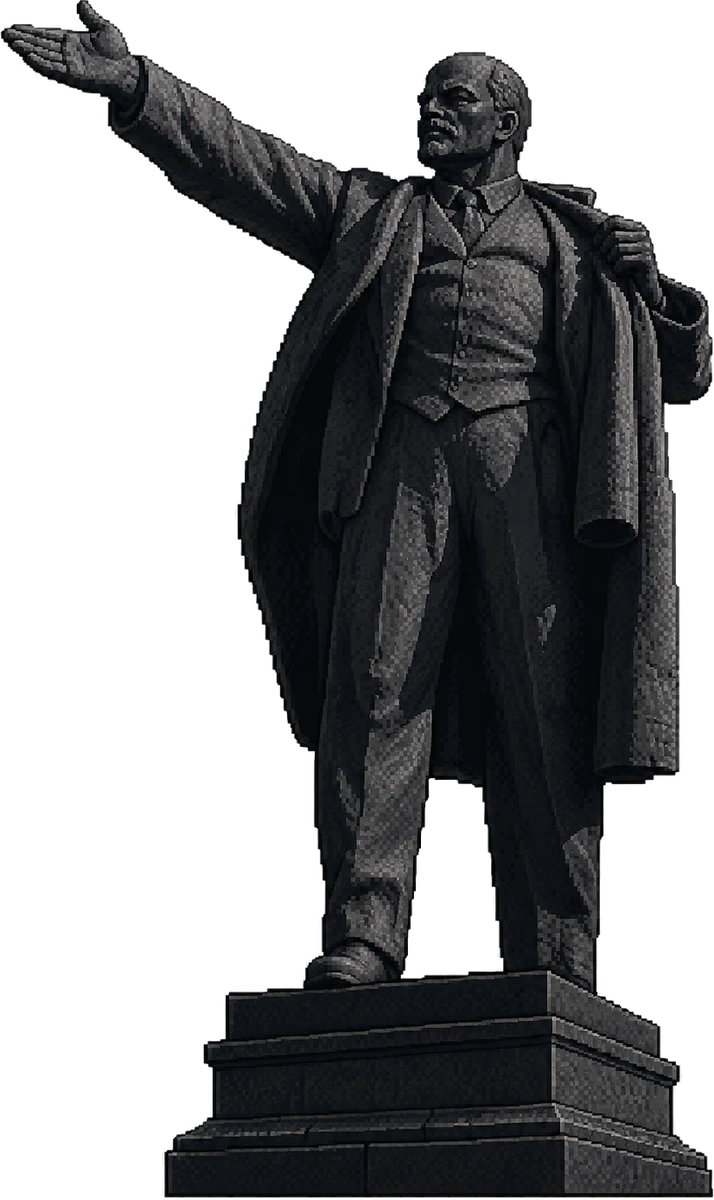
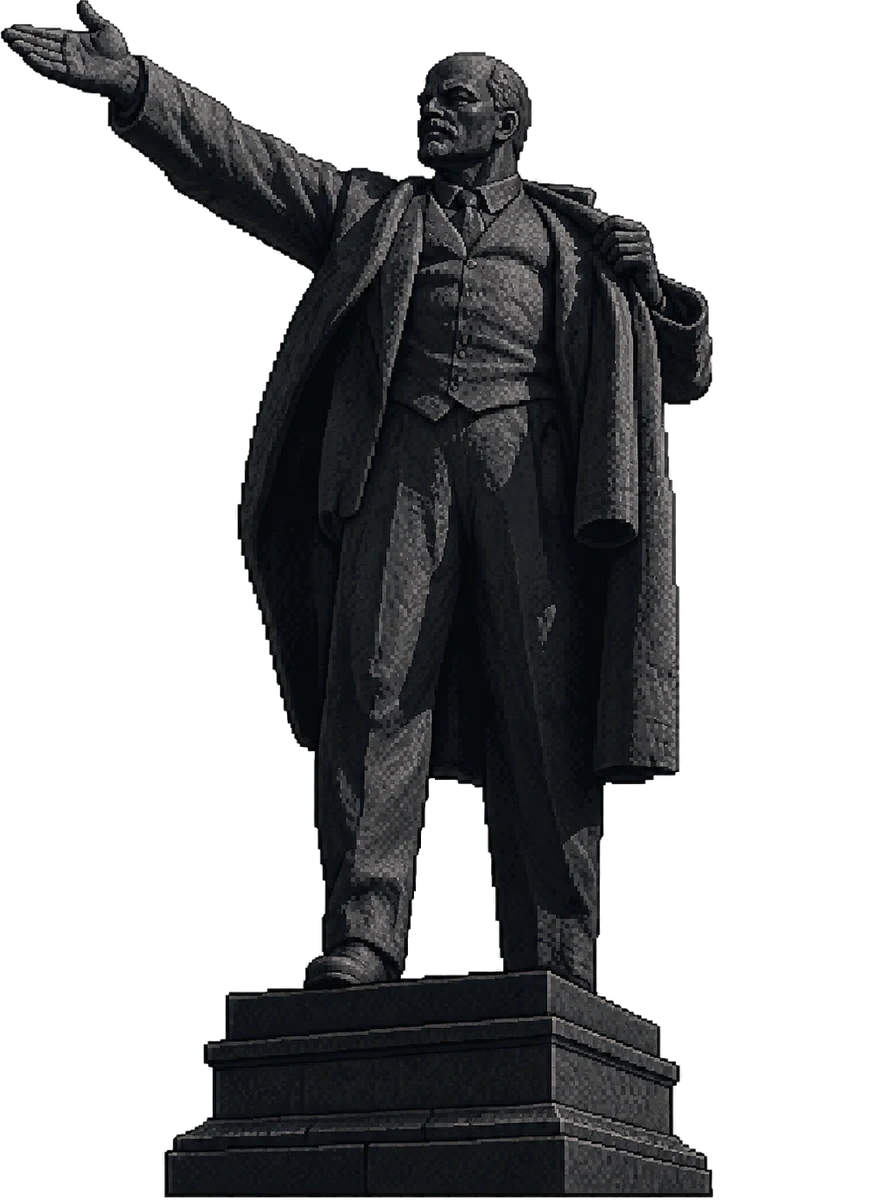
fix(menu): centre monuments in-canvas, drop socha1 left:44% aspect drift
The hero rotation read as "sometimes off-set": socha1 (Lenin) carried a
hand-tuned `left:44%` whose error swung with aspect ratio (-51px @16:9,
-14px @5:4), and socha3 (Родина-мать) sat in a lopsided crop (18.8% empty
left vs 12% right -> +17px right + dead space). The sunburst/glow are
locked to left:50% and never move horizontally — the off-centre statue
just made them look misaligned.

Fix at the source: re-pad socha1 (+158px transparent right) and re-crop
socha3 (-47px dead space left) so each figure's BASE sits at the canvas
centre, then delete left:44% for a uniform inherited left:50%. Verified
every base within ~1px of centre and aspect-invariant (Playwright
alpha-centroid, 16:9 + 5:4). socha2/socha4 already centred — left
untouched (no re-encode). Cache-bust v241.

diff --git a/index.html b/index.html
@@ -666,10 +666,15 @@
       animation: heroDrift 30s ease-in-out infinite alternate; -webkit-user-drag: none; user-select: none; }
     @keyframes heroDrift { from { transform: translateX(-50%) translateY(0) scale(1); } to { transform: translateX(-50%) translateY(-1.2%) scale(1.025); } }
     /* per-monument custom sizing + tone (each statue has its own proportions/reach; the grey ones are
-       darkened to Родина-мать's near-black silhouette tone so they all read the same) */
+       darkened to Родина-мать's near-black silhouette tone so they all read the same).
+       NOTE: every webp has its figure centred in its own canvas (socha1 + socha3 were re-cropped/padded
+       so the figure's BASE sits at the canvas centre; socha2 + socha4 already were), so the single
+       inherited left:50% lands every monument on the sunburst. Do NOT add per-image `left` nudges —
+       the old socha1 `left:44%` drifted with aspect ratio (off by %-of-width, not %-of-figure).
+       Re-centre in the IMAGE, not in CSS. */
     .hero-scene > .sil-img[src*="socha3"] { height: 97%; max-width: none; }  /* Родина-мать — reference dark, commanding */
     .hero-scene > .sil-img[src*="socha2"] { height: 88%; max-width: none; filter: brightness(.55) contrast(1.06) saturate(.92) drop-shadow(0 10px 30px rgba(0,0,0,.5)); }  /* Рабочий и колхозница */
-    .hero-scene > .sil-img[src*="socha1"] { height: 86%; max-width: none; left: 44%; filter: brightness(.62) contrast(1.06) saturate(.92) drop-shadow(0 10px 30px rgba(0,0,0,.5)); }  /* Ленин — body centred + darkened */
+    .hero-scene > .sil-img[src*="socha1"] { height: 86%; max-width: none; filter: brightness(.62) contrast(1.06) saturate(.92) drop-shadow(0 10px 30px rgba(0,0,0,.5)); }  /* Ленин — base-centred in the webp, so plain inherited left:50% (no nudge) + darkened */
     .hero-scene > .sil-img[src*="socha4"] { height: 75%; max-width: none; filter: brightness(.62) contrast(1.06) saturate(.92) drop-shadow(0 10px 30px rgba(0,0,0,.5)); }  /* Воин-освободитель — Treptower liberator (grey stone darkened to match); shorter so the whole statue clears the title */
     .sil { fill: #170402; }                          /* silhouette body */
     .sil2 { fill: #210805; }                          /* a hair lighter (depth layering) */
@@ -1251,6 +1256,6 @@
       }
     })();
   </script>
-  <script type="module" src="./src/game.js?v=240"></script>
+  <script type="module" src="./src/game.js?v=241"></script>
 </body>
 </html>

diff --git a/src/game.js b/src/game.js
@@ -27,7 +27,7 @@ import { Effects } from './effects.js';
 // the build the browser actually loaded. GAME_BUILD is the release time (local, to the minute) —
 // bump it together with index.html's ?v= on every deploy.
 const GAME_VERSION = (() => { try { const m = String(import.meta.url).match(/[?&]v=(\d+)/); return m ? 'v' + m[1] : 'dev'; } catch (e) { return 'dev'; } })();
-const GAME_BUILD = '2026-06-05 10:10';
+const GAME_BUILD = '2026-06-05 11:34';
 
 const _flareWP = new THREE.Vector3();   // scratch: flare flame world-position (module-private, mirrors the copies in mp.js/loot.js; was dropped from game.js during the module split)
 
